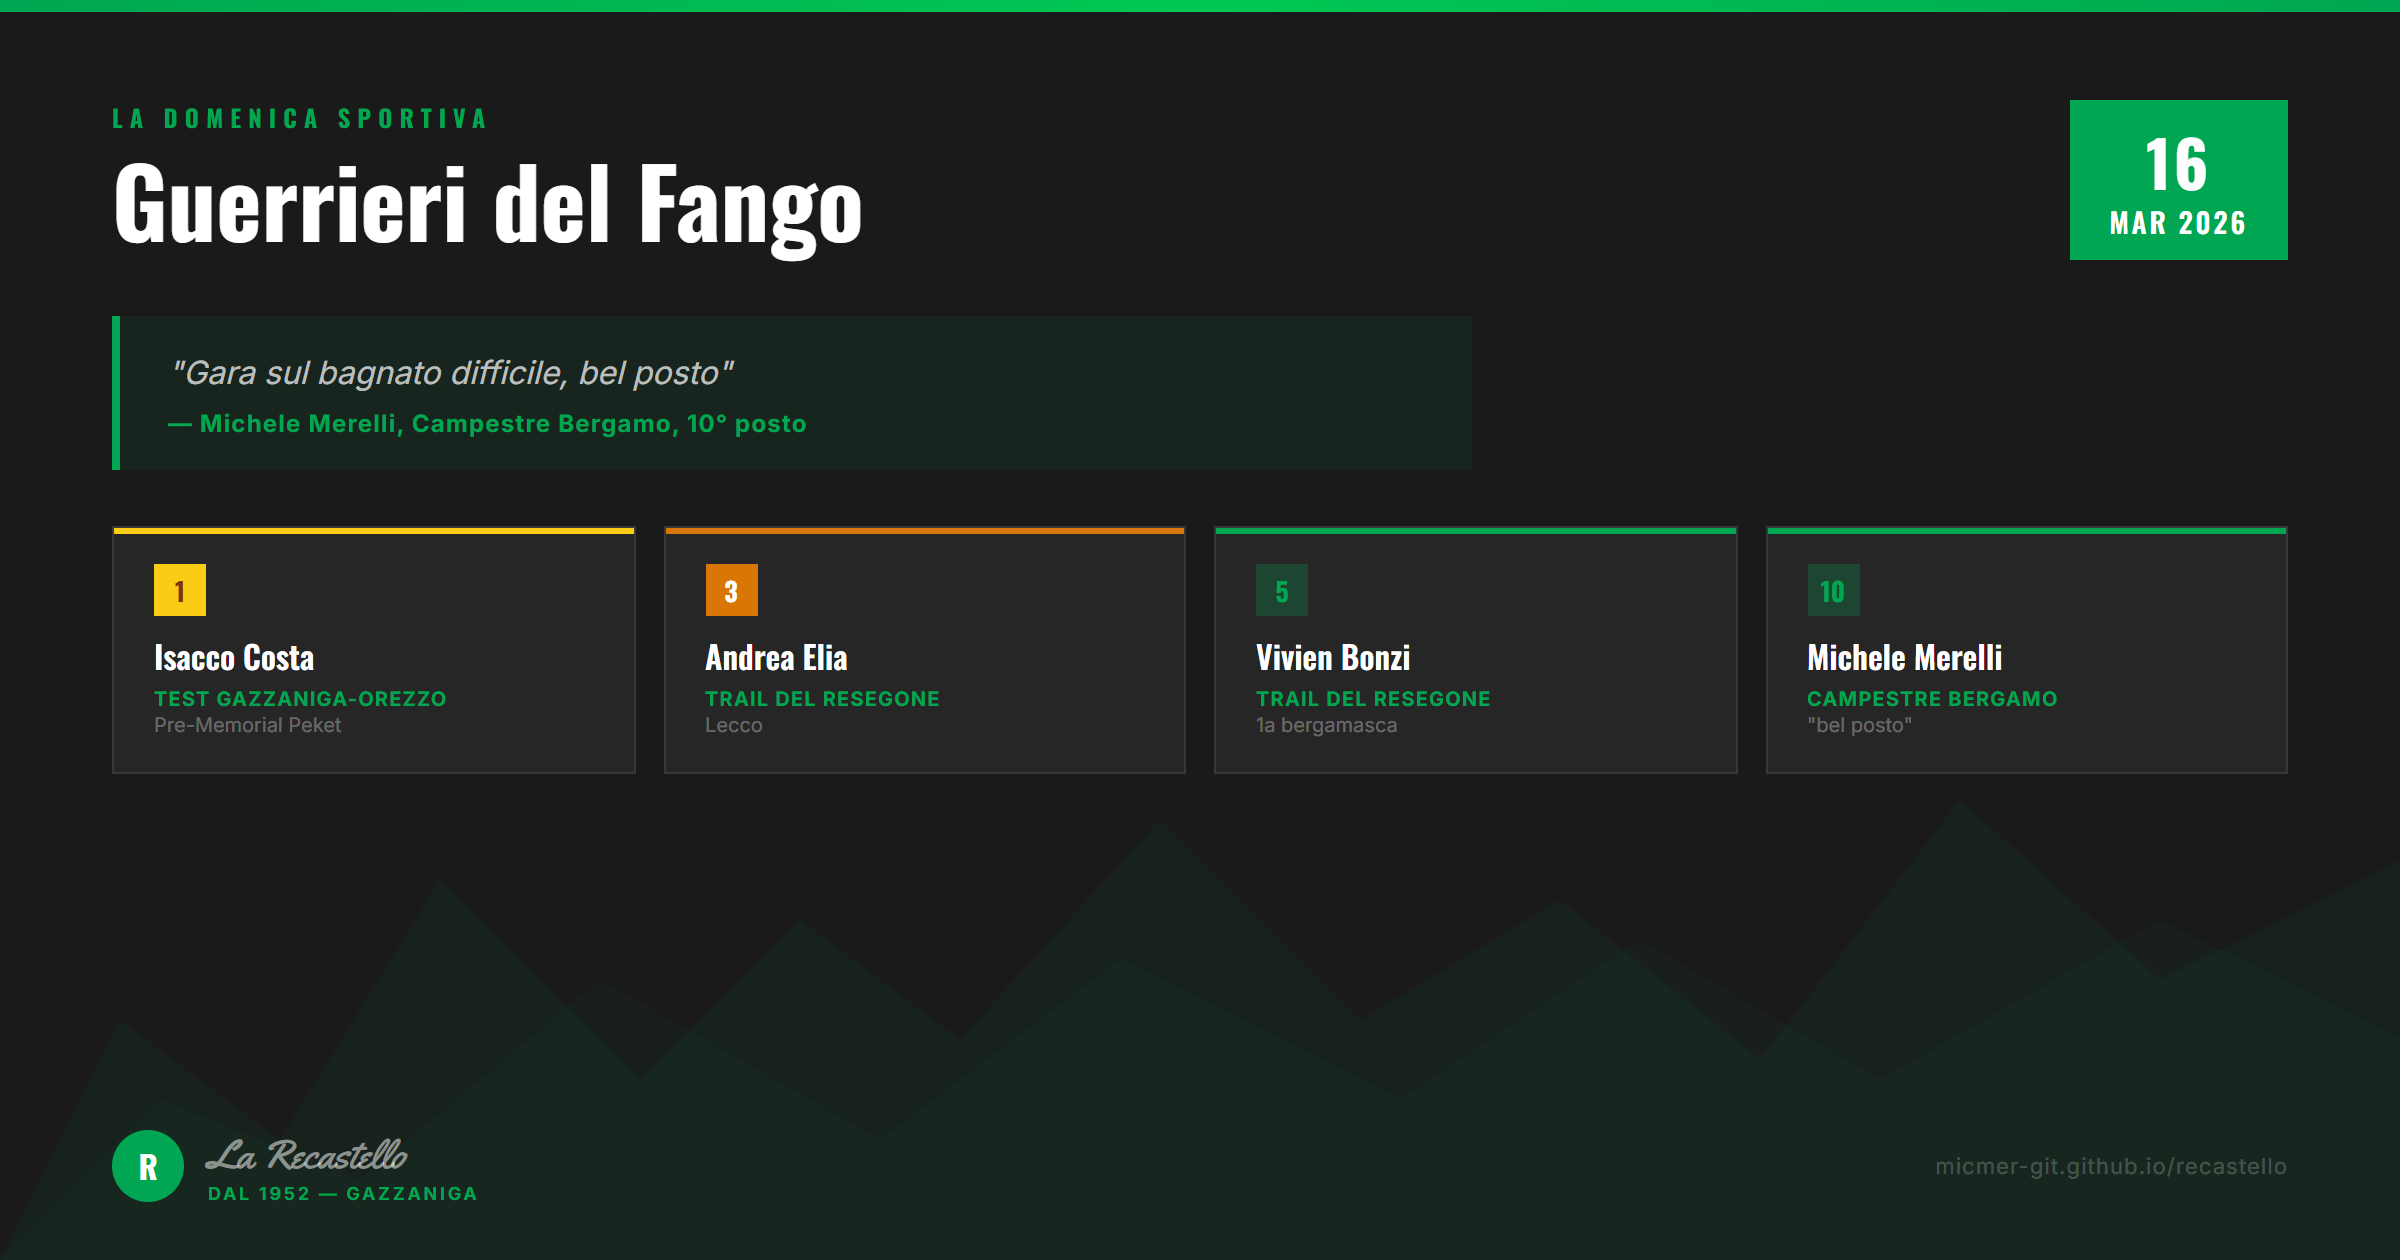
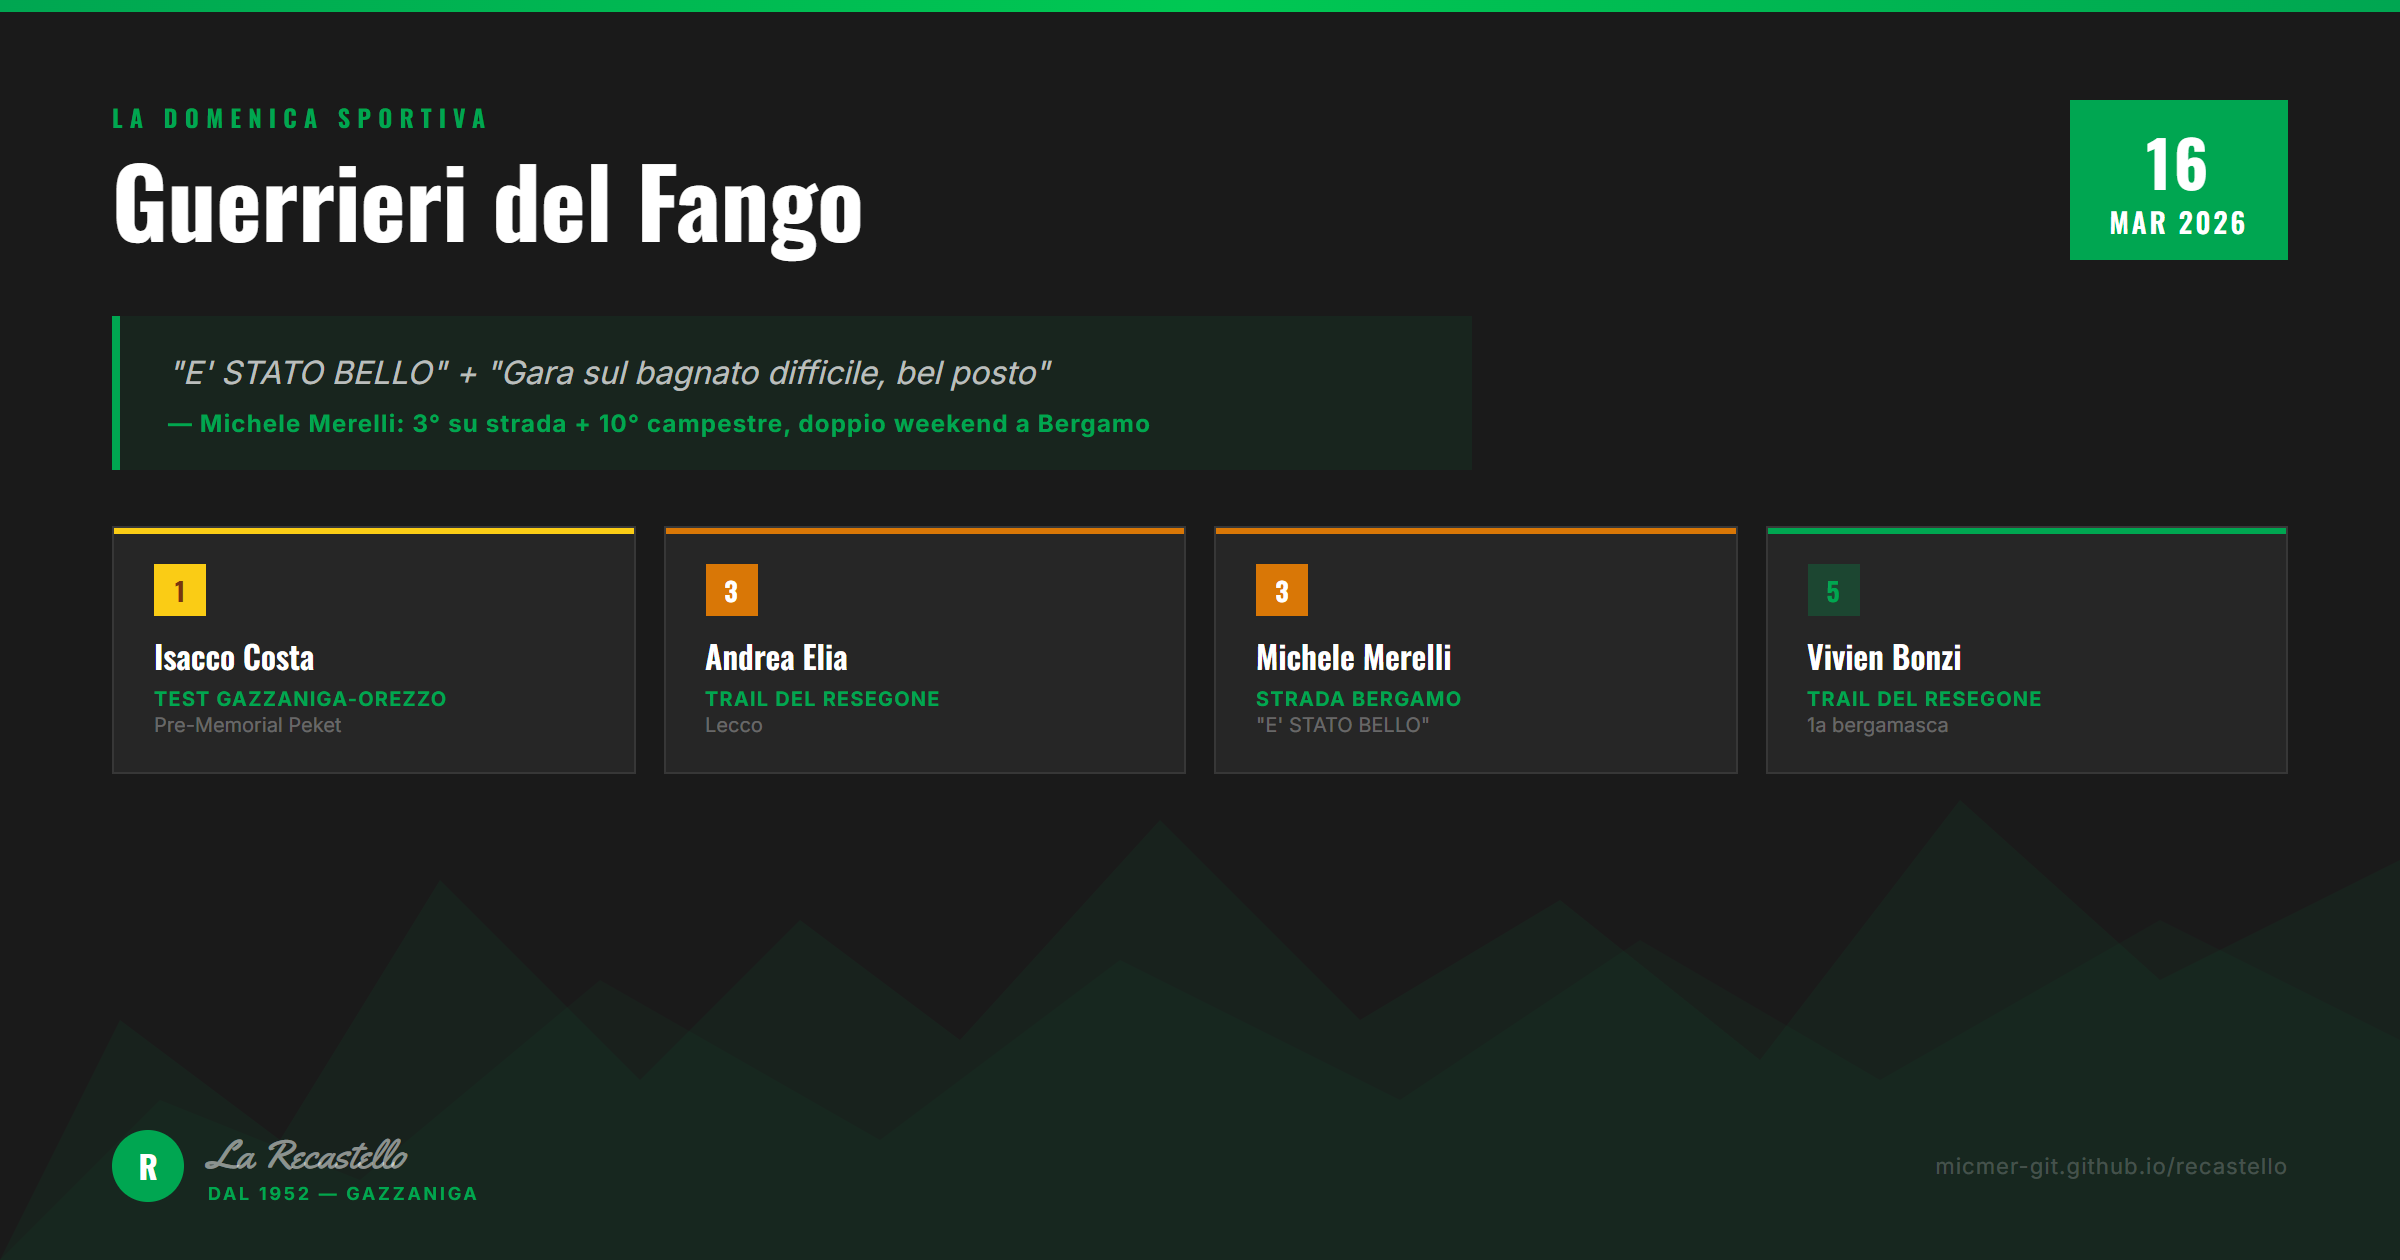
feat: blog post v3 with both submissions, fix photo upload resilience
- Blog includes both Michele submissions (#7 campestre + #9 strada)
- Narrative weaves both quotes into flowing prose
- Image v3: dual quote block, Michele's bronze card added
- Worker fix: create issue FIRST, then upload photos as comment
  (prevents total failure when Contents permission is missing)
- Photos need PAT with Contents:write — currently best-effort

Changed region(s): [[0.0625, 0.2786, 0.4688, 0.3405], [0.5, 0.4024, 0.7188, 0.5881], [0.75, 0.4952, 0.8438, 0.5881]]

diff --git a/worker/index.js b/worker/index.js
@@ -72,16 +72,15 @@ export default {
       const dateStr = now.toISOString().slice(0, 10);
       const ts = now.getTime();
 
-      // Upload photos if present (array of { name, data } with base64)
-      const photoUrls = [];
+      // Extract photo data for later (don't block on upload)
+      const photoEntries = [];
       if (data.photos && Array.isArray(data.photos)) {
         for (let i = 0; i < Math.min(data.photos.length, 3); i++) {
           const photo = data.photos[i];
-          if (!photo.data) continue;
-          const ext = photo.name?.split('.').pop() || 'jpg';
-          const filename = `${dateStr}_${ts}_${i}.${ext}`;
-          const url = await uploadImage(env, filename, photo.data);
-          if (url) photoUrls.push(url);
+          if (photo?.data) {
+            const ext = photo.name?.split('.').pop() || 'jpg';
+            photoEntries.push({ ext, data: photo.data, idx: i });
+          }
         }
       }
 
@@ -90,8 +89,8 @@ export default {
       if (type === 'risultato') {
         title = `Risultato: ${data.gara || 'Gara'} — ${data.nome || ''} ${data.cognome || ''}`;
         labels = ['risultato', 'submission'];
-        const photoSection = photoUrls.length > 0
-          ? '\n### Foto\n' + photoUrls.map((u, i) => `![foto ${i + 1}](${u})`).join('\n') + '\n'
+        const photoNote = photoEntries.length > 0
+          ? `\n### Foto\n_${photoEntries.length} foto allegate (vedi commento sotto)_\n`
           : '';
         body = [
           `## Invio Risultato Gara`,
@@ -108,7 +107,7 @@ export default {
           ``,
           `### Racconto`,
           data.racconto || '_nessun racconto_',
-          photoSection,
+          photoNote,
           `---`,
           `_Inviato dal sito La Recastello il ${now.toLocaleDateString('it-IT')}_`,
         ].join('\n');
@@ -156,8 +155,40 @@ export default {
 
       const issue = await ghResponse.json();
 
+      // Upload photos after issue creation (non-blocking, best-effort)
+      let uploadedPhotos = 0;
+      if (photoEntries.length > 0) {
+        const photoUrls = [];
+        for (const p of photoEntries) {
+          try {
+            const filename = `${dateStr}_${ts}_${p.idx}.${p.ext}`;
+            const url = await uploadImage(env, filename, p.data);
+            if (url) photoUrls.push(url);
+          } catch (e) { /* best effort */ }
+        }
+        uploadedPhotos = photoUrls.length;
+
+        // Add photos as a comment on the issue
+        if (photoUrls.length > 0) {
+          const commentBody = '### Foto\n' + photoUrls.map((u, i) => `![foto ${i + 1}](${u})`).join('\n\n');
+          await fetch(
+            `https://api.github.com/repos/${REPO_OWNER}/${REPO_NAME}/issues/${issue.number}/comments`,
+            {
+              method: 'POST',
+              headers: {
+                Authorization: `Bearer ${env.GITHUB_TOKEN}`,
+                Accept: 'application/vnd.github+json',
+                'User-Agent': 'RecastelloFormsWorker/1.0',
+                'Content-Type': 'application/json',
+              },
+              body: JSON.stringify({ body: commentBody }),
+            }
+          ).catch(() => {});
+        }
+      }
+
       return new Response(
-        JSON.stringify({ ok: true, issue: issue.number, url: issue.html_url, photos: photoUrls.length }),
+        JSON.stringify({ ok: true, issue: issue.number, url: issue.html_url, photos: uploadedPhotos }),
         { status: 201, headers: { ...corsHeaders(origin), 'Content-Type': 'application/json' } }
       );
 

diff --git a/src/data/site.js b/src/data/site.js
@@ -574,15 +574,23 @@ export const BLOG_POSTS = [
     slug: '2026-03-16-domenica-sportiva',
     title: 'La Domenica Sportiva — 16 Marzo 2026',
     date: '2026-03-16',
-    intro: 'Weekend di pioggia sulle Orobie ma i colori verde della Recastello non si fermano. Dalla corsa campestre a Bergamo al trail sui sentieri fangosi del Resegone, passando per un test cronometrico pre-Memorial Peket. Ecco i nostri guerrieri del fango.',
+    intro: 'Due weekend, una costante: Michele Merelli con i colori verde della Recastello sui campi di Bergamo. Prima la campestre sotto la pioggia, poi il terzo posto nella corsa su strada. Nel mezzo, il Trail del Resegone e un test interno che scalda i motori per il Memorial Peket del 25 aprile.',
     image: '/recastello/img/blog/2026-03-16.png',
     results: [
       {
         athlete: 'Michele Merelli',
         athleteId: 'michele-merelli',
+        race: 'Corsa su Strada Bergamo',
+        location: 'Bergamo',
+        text: '"E\' STATO BELLO" — tutto maiuscolo, come l\'entusiasmo di Michele dopo il terzo posto nella corsa su strada di Bergamo. Un\'ora e venti di fatica ricompensata dal podio, un salto di qualita netto rispetto al decimo della campestre di due settimane prima. Merelli sta crescendo gara dopo gara e il podio bergamasco lo conferma: quando le gambe girano e la testa e libera, i risultati arrivano. Terzo a Bergamo oggi, chissa dove domani.',
+        position: 3,
+      },
+      {
+        athlete: 'Michele Merelli',
+        athleteId: 'michele-merelli',
         race: 'Corsa Campestre Bergamo',
         location: 'Bergamo',
-        text: '"Gara sul bagnato difficile, bel posto" — cosi Michele racconta la sua campestre a Bergamo. Decimo in condizioni proibitive, con il fango che trasformava ogni curva in una lotteria. Un piazzamento che pesa piu di quanto dica il numero: sul bagnato servono gambe ma soprattutto testa, e Merelli non ha mai mollato. Il bel posto di cui parla e il Parco dei Colli, anfiteatro naturale che sotto la pioggia di marzo diventa un percorso da veri montanari — terreno ideale per chi e cresciuto sui sentieri delle Orobie.',
+        text: '"Gara sul bagnato difficile, bel posto" — cosi Michele racconta la campestre di due settimane fa. Decimo in condizioni proibitive, con il fango che trasformava ogni curva in una lotteria. Un piazzamento che pesa piu di quanto dica il numero: sul bagnato servono gambe ma soprattutto testa. Il bel posto di cui parla e il Parco dei Colli, anfiteatro naturale che sotto la pioggia di marzo diventa un percorso da veri montanari.',
         position: 10,
       },
       {
